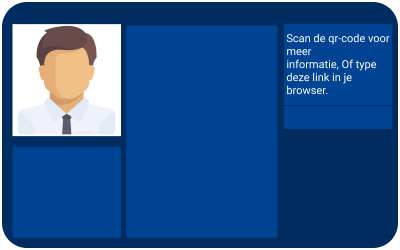
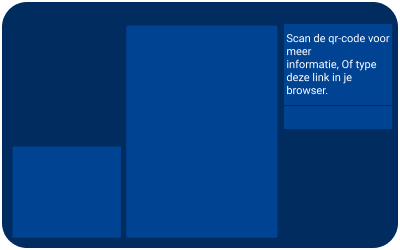
Gegevens pagina meer dynamisch

Changed region(s): [[0.03, 0.084, 0.3, 0.56]]

diff --git a/Frontend/dashboard/src/app/genereren/genereren.component.html b/Frontend/dashboard/src/app/genereren/genereren.component.html
@@ -1,71 +1,55 @@
 <div class="container">
-  <!-- <div class="row">
-    <div class="col">
-      <div id="hulppas-voor" class="rij">
-        <div class="kolom">
-          <img id="profilepic" src="https://randomuser.me/api/portraits/women/27.jpg" alt="Profilepic">
-        </div>
-        <div class="kolom">
-          <div>
-            Als ik veel prikkels krijg dan kan ik agressief overkomen. Op deze pas staan mensen die mij kunnen kalmeren.
-          </div>
-        </div>
-        <div class="kolom">
-          <div>
-            Scan de qr-code voor meer informatie, of ga naar deze link in je browser.
-          </div>
-          <div>
-            hulp.pas/aQuWsmWs
-          </div>
-          <img class="img-fluid" src="assets/img/example-qr.png" alt="QR-code">
-        </div>
-      </div>
-    </div>
-    <div class="col">
-      <div id="hulppas-achter" class="row">
-        <div class="col">
-          aa
-        </div>
-        <div class="col">
-          aa
-        </div>
-        <div class="col">
-          aa
-        </div>
-      </div>
-    </div>
+  <div class="alert alert-danger mt-3" role="alert">
+    <h4 class="alert-heading">Pagina is niet wijd genoeg!</h4>
+    <p>Om de generatie van de passen goed te laten verlopen moet jouw apparaat een minimale wijdte van 1000 pixels toestaan, telefoons en tablets zijn niet wijd genoeg.</p>
+    <hr>
+    <p class="mb-0">Als je op een normale computer zit, probeer de pagina te bekijken in volledige grootte. In- en outzoomen zorgen er ook voor dat de download van de foto's kleiner is dan bedoeld. Doe dit dan ook niet. Voor meer vragen raadpleeg de handleiding op de homepage.</p>
   </div>
-  <button class='btn btn-primary' (click)='exportHulppas()'>Generate</button> -->
-
-  <div class="row">
+  <div class="row content">
     <div class="col">
       <div id="hulppas-voor" class="hulppas">
         <img src="assets/img/voorkant.png" alt="Voorkant Hulppas">
         <div id="voornaam">
-          Frederik
+          Frederike
         </div>
         <div id="tussenvoegsel">van</div>
         <div id="achternaam">
           Eijk
         </div>
-        <div id="id">
-          ID/123456
-        </div>
-        <div id="beschrijving">
-          aaa
+        <div id="geboortedatum">
+          10-10-1976
         </div>
         <img id="qr-code-voor" src="assets/img/example-qr.jpg" alt="QR-code">
-        <img id="profilepic" src="https://randomuser.me/api/portraits/women/27.jpg" alt="Profilepic">
+        <img id="profilepic" src="assets/img/example-profilepic.jpg" alt="Profilepic">
+        <div id="beschrijving">
+          Als ik veel prikkels krijg, kan ik agressief overkomen. Op deze pas staan mensen die mij kunnen helpen.
+        </div>
+        <div id="shortlink">
+          bit.ly/aBcDeFg
+        </div>
       </div>
     </div>
     <div class="col">
       <div id="hulppas-achter" class="hulppas">
         <img src="assets/img/achterkant.png" alt="Achterkant Hulppas">
-        <div id="">
-          asdasdadasd
+        <img id="qr-code-achter" src="assets/img/example-qr.jpg" alt="QR-code">
+        <div id="vertrouwenspersoon-naam" class="achterkant-tekst">
+          Hendrik van Eijk
+        </div>
+        <div id="vertrouwenspersoon-relatie" class="achterkant-tekst">
+          Vader
+        </div>
+        <div id="vertrouwenspersoon-adres" class="achterkant-tekst">
+          Straatnaam 12 0000AB Stad
+        </div>
+        <div id="vertrouwenspersoon-telefoon" class="achterkant-tekst">
+          +316 00 00 00 00
+        </div>
+        <div id="adres" class="achterkant-tekst">
+          Straatnaam 12 0000AB Stad
         </div>
       </div>
     </div>
   </div>
-  <button class='btn btn-primary' (click)='exportHulppas()'>Generate</button>
+  <button class='btn btn-primary content' (click)='exportHulppas()'>Generate</button>
 </div>

diff --git a/Frontend/dashboard/src/app/gegevens/gegevens.component.html b/Frontend/dashboard/src/app/gegevens/gegevens.component.html
@@ -15,21 +15,21 @@
             <thead class="thead-light">
               <tr>
                 <th scope="col">#</th>
-                <th scope="col">First</th>
-                <th scope="col">Last</th>
-                <th scope="col">BSN</th>
+                <th scope="col">Naam</th>
+                <th scope="col">Geboortedatum</th>
+                <th scope="col">Telefoon</th>
                 <th scope="col" class="editrow"></th>
               </tr>
             </thead>
             <tbody>
-              <tr>
+              <!-- <tr>
                 <th scope="row">1</th>
                 <td>Mark</td>
                 <td>Otto</td>
                 <td>@mdo</td>
-                <td><button class="btn btn-primary btn-sm mr-1"><i class="fas fa-pills"></i></button><button class="btn btn-primary btn-sm"><i class="fas fa-edit"></i></button></td>
-              </tr>
-              <tr>
+                <td><button class="btn btn-primary btn-sm mr-1" data-toggle="tooltip" data-placement="top" title="Bekijk/wijzig medicijnen"><i class="fas fa-pills"></i></button><button class="btn btn-primary btn-sm" data-toggle="tooltip" data-placement="top" title="Bekijk/wijzig details patiënt"><i class="fas fa-edit"></i></button></td>
+              </tr> -->
+              <!-- <tr>
                 <th scope="row">2</th>
                 <td>Jacob</td>
                 <td>Thornton</td>
@@ -42,7 +42,7 @@
                 <td>the Bird</td>
                 <td>@twitter</td>
                 <td><button class="btn btn-primary btn-sm mr-1"><i class="fas fa-pills"></i></button><button class="btn btn-primary btn-sm"><i class="fas fa-edit"></i></button></td>
-              </tr>
+              </tr> -->
             </tbody>
           </table>
     </div>

diff --git a/Frontend/dashboard/src/app/genereren/genereren.component.scss b/Frontend/dashboard/src/app/genereren/genereren.component.scss
@@ -1,10 +1,11 @@
 .hulppas {
   color: white;
+  width: fit-content;
 }
 #profilepic {
   position: absolute;
-  margin-top: -248px;
-  margin-left: 14px;
+  margin-top: 25px;
+  margin-left: -390px;
   width: 110px
 }
 #voornaam {
@@ -22,16 +23,72 @@
   margin-top: -60px;
   margin-left: 16px;
 }
-#id {
+#geboortedatum {
   position: absolute;
   margin-top: -40px;
   margin-left: 16px;
 }
+#beschrijving {
+  position: absolute;
+  margin-top: -220px;
+  margin-left: 130px;
+  width: 146px
+}
 #qr-code-voor {
+  z-index: 10000;
   width: 100px;
   height: 100px;
 
   position: absolute;
-  margin-top: -140px;
+  margin-top: 136px;
+  margin-left: -112px;
+}
+#shortlink {
+  position: absolute;
+  margin-top: -145px;
   margin-left: 286px;
+  width: 146px
+}
+
+#qr-code-achter {
+  z-index: 10000;
+  width: 100px;
+  height: 100px;
+
+  position: absolute;
+  margin-top: 136px;
+  margin-left: -380px;
+}
+.achterkant-tekst {
+  position: absolute;
+  color: black;
+  font-size: 14px;
+  margin-left: 196px;
+}
+#vertrouwenspersoon-naam {
+  margin-top: -190px;
+}
+#vertrouwenspersoon-relatie {
+  margin-top: -170px;
+}
+#vertrouwenspersoon-adres {
+  margin-top: -150px;
+}
+#vertrouwenspersoon-telefoon {
+  margin-top: -130px;
+}
+#adres {
+  margin-top: -80px;
+}
+
+@media screen and (max-width: 1000px) {
+  .content {
+    display: none;
+  }
+}
+
+@media screen and (min-width: 1000px) {
+  .alert {
+    display: none;
+  }
 }

diff --git a/Frontend/dashboard/src/app/gegevens/gegevens.component.ts b/Frontend/dashboard/src/app/gegevens/gegevens.component.ts
@@ -1,4 +1,6 @@
 import { Component, OnInit } from '@angular/core';
+import { Person } from '../_services/person.service';
+declare var $: any;
 
 @Component({
   selector: 'app-gegevens',
@@ -7,9 +9,20 @@ import { Component, OnInit } from '@angular/core';
 })
 export class GegevensComponent implements OnInit {
 
-  constructor() { }
+  constructor(private personService: Person) { }
 
-  ngOnInit() {
+  // TODO maak dat 1e 10 users worden opgehaald, daarna 20, etc etc. Maak person objecten
+
+  insertPerson(code, naam, geboortedatum, telefoon) {
+    var editButtons = '<a href="/medicijnen/'+ code +'" class="btn btn-primary btn-sm mr-1" data-toggle="tooltip" data-placement="top" title="Bekijk/wijzig medicijnen"><i class="fas fa-pills"></i></a><a href="/gegevens/'+ code +'" class="btn btn-primary btn-sm" data-toggle="tooltip" data-placement="top" title="Bekijk/wijzig details patiënt"><i class="fas fa-edit"></i></a>';
+    var markup = "<tr><th scope='row'>"+ code +"</th><td>" + naam + "</td><td>" + geboortedatum + "</td><td>" + telefoon + "</td><td>" + editButtons + "</td></tr>";
+    $("table tbody").append(markup);
   }
 
+  ngOnInit() {
+    this.insertPerson(1, 'Fred E', '11-11-2019', '+316 000000000');
+
+    $('[data-toggle="tooltip"]').tooltip();
+
+  }
 }

diff --git a/Frontend/dashboard/src/app/patient/patient.component.spec.ts b/Frontend/dashboard/src/app/patient/patient.component.spec.ts
@@ -1,0 +1,25 @@
+import { async, ComponentFixture, TestBed } from '@angular/core/testing';
+
+import { PatientComponent } from './patient.component';
+
+describe('PatientComponent', () => {
+  let component: PatientComponent;
+  let fixture: ComponentFixture<PatientComponent>;
+
+  beforeEach(async(() => {
+    TestBed.configureTestingModule({
+      declarations: [ PatientComponent ]
+    })
+    .compileComponents();
+  }));
+
+  beforeEach(() => {
+    fixture = TestBed.createComponent(PatientComponent);
+    component = fixture.componentInstance;
+    fixture.detectChanges();
+  });
+
+  it('should create', () => {
+    expect(component).toBeTruthy();
+  });
+});

diff --git a/Frontend/dashboard/src/app/_services/person.service.ts b/Frontend/dashboard/src/app/_services/person.service.ts
@@ -1,9 +1,28 @@
 import { Injectable } from '@angular/core';
+import { Http } from '@angular/http';
+import { map } from 'rxjs/operators';
+import { HttpClient } from '@angular/common/http';
 
 @Injectable({
   providedIn: 'root'
 })
 export class Person {
+  urlAll: string;
+  urlByCode: string;
+  person: any;
 
-  constructor() { }
+  // TODO fix errors
+
+
+  constructor(private http: Http) {
+    this.urlAll  =   "http://hulppas.herokuapp.com/api/verwardepersoon";
+  }
+
+  getAll() {
+    return this.http.get(this.urlPt0).pipe(map(res => res.json()));
+  }
+
+  getByCode() {
+    return this.http.get(this.urlPt0).pipe(map(res => res.json()));
+  }
 }

diff --git a/Frontend/dashboard/src/app/app.module.ts b/Frontend/dashboard/src/app/app.module.ts
@@ -11,6 +11,7 @@ import { LoginComponent } from './login/login.component';
 import { FooterComponent } from './footer/footer.component';
 import { LogoutComponent } from './logout/logout.component';
 import { HomepageComponent } from './homepage/homepage.component';
+import { PatientComponent } from './patient/patient.component';
 
 @NgModule({
   declarations: [
@@ -22,7 +23,8 @@ import { HomepageComponent } from './homepage/homepage.component';
     LoginComponent,
     FooterComponent,
     LogoutComponent,
-    HomepageComponent
+    HomepageComponent,
+    PatientComponent
   ],
   imports: [
     BrowserModule,

diff --git a/Frontend/dashboard/src/app/app.component.ts b/Frontend/dashboard/src/app/app.component.ts
@@ -1,5 +1,4 @@
 import { Component } from '@angular/core';
-import * as $ from 'jquery';
 import * as html2canvas from 'html2canvas';
 import { Router } from '@angular/router';
 
@@ -11,6 +10,7 @@ import { Router } from '@angular/router';
 export class AppComponent {
   title = 'Dashboard';
   router: string;
+
 
   constructor(private _router: Router){
     this.router = _router.url;

diff --git a/Frontend/dashboard/src/app/patient/patient.component.ts b/Frontend/dashboard/src/app/patient/patient.component.ts
@@ -1,0 +1,15 @@
+import { Component, OnInit } from '@angular/core';
+
+@Component({
+  selector: 'app-patient',
+  templateUrl: './patient.component.html',
+  styleUrls: ['./patient.component.scss']
+})
+export class PatientComponent implements OnInit {
+
+  constructor() { }
+
+  ngOnInit() {
+  }
+
+}

diff --git a/Frontend/dashboard/src/app/genereren/genereren.component.ts b/Frontend/dashboard/src/app/genereren/genereren.component.ts
@@ -1,4 +1,5 @@
 declare var require: any;
+declare var $: any;
 
 import { Component, OnInit } from '@angular/core';
 // import * as html2canvas from 'html2canvas';

diff --git a/Frontend/dashboard/src/app/patient/patient.component.html b/Frontend/dashboard/src/app/patient/patient.component.html
@@ -1,0 +1,3 @@
+<p>
+  patient works!
+</p>
